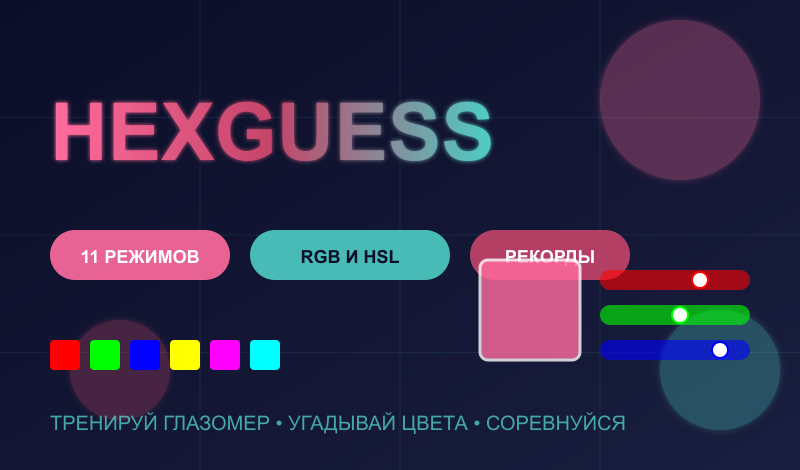
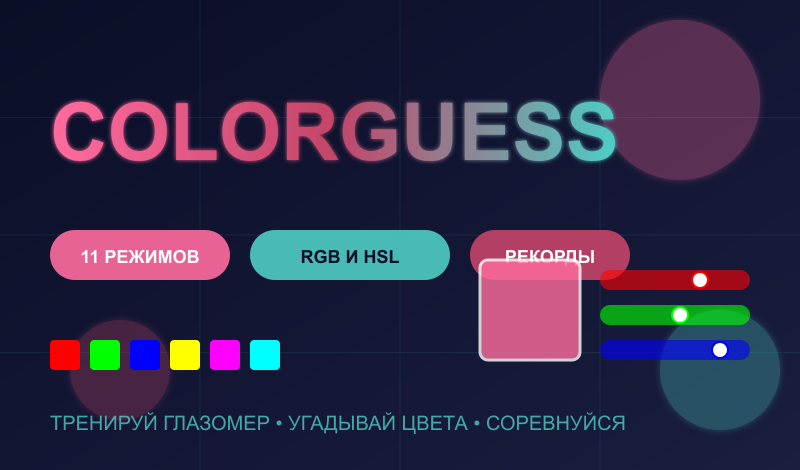
Переименование игры: HexGuess → ColorGuess
- Изменено название во всех мета-тегах и манифесте
- Обновлены SVG обложки с новым названием
- Пересозданы PNG обложки
- Изменена иконка: буква H → C, текст #HEX → #RGB
- Обновлены переводы в i18n.js
- Изменено название в package.json

Changed region(s): [[0.0625, 0.2085, 0.7812, 0.3574]]

diff --git a/index.html b/index.html
@@ -5,11 +5,11 @@
     <meta name="viewport" content="width=device-width, initial-scale=1.0, maximum-scale=1.0, user-scalable=no, viewport-fit=cover">
 
     <!-- Primary Meta Tags -->
-    <title>HexGuess | Угадай Цвет по HEX-коду</title>
-    <meta name="title" content="HexGuess | Угадай Цвет по HEX-коду">
+    <title>ColorGuess | Угадай Цвет по HEX-коду</title>
+    <meta name="title" content="ColorGuess | Угадай Цвет по HEX-коду">
     <meta name="description" content="Браузерная игра на угадывание цветов. 11 режимов игры: от легкого до марафона. Угадывай цвета, соревнуйся с друзьями в дейли челлендже!">
     <meta name="keywords" content="угадай цвет, hex colors, цветовая игра, rgb игра, браузерная игра, онлайн игра цвета, дизайн игра">
-    <meta name="author" content="HexGuess">
+    <meta name="author" content="ColorGuess">
     <meta name="robots" content="index, follow">
     <meta name="language" content="Russian">
     <meta name="revisit-after" content="7 days">
@@ -17,16 +17,16 @@
     <!-- Open Graph / Facebook -->
     <meta property="og:type" content="website">
     <meta property="og:url" content="https://hexguess.ru/">
-    <meta property="og:title" content="HexGuess">
+    <meta property="og:title" content="ColorGuess">
     <meta property="og:description" content="Браузерная игра на угадывание цветов. 11 режимов игры: от легкого до марафона. Угадывай цвета, соревнуйся с друзьями!">
     <meta property="og:image" content="https://hexguess.ru/og-image.png">
     <meta property="og:locale" content="ru_RU">
-    <meta property="og:site_name" content="HexGuess">
+    <meta property="og:site_name" content="ColorGuess">
 
     <!-- Twitter -->
     <meta property="twitter:card" content="summary_large_image">
     <meta property="twitter:url" content="https://hexguess.ru/">
-    <meta property="twitter:title" content="HexGuess">
+    <meta property="twitter:title" content="ColorGuess">
     <meta property="twitter:description" content="Браузерная игра на угадывание цветов. 11 режимов игры: от легкого до марафона.">
     <meta property="twitter:image" content="https://hexguess.ru/twitter-image.png">
 
@@ -56,7 +56,7 @@
     {
       "@context": "https://schema.org",
       "@type": "WebApplication",
-      "name": "HexGuess",
+      "name": "ColorGuess",
       "url": "https://hexguess.app",
       "description": "Браузерная игра на угадывание цветов с 11 режимами игры",
       "applicationCategory": "Game",

diff --git a/src/i18n.js b/src/i18n.js
@@ -1,8 +1,8 @@
-// Localization for HexGuess
+// Localization for ColorGuess
 export const translations = {
   ru: {
     // Main menu
-    title: 'HEXGUESS',
+    title: 'COLORGUESS',
     startGame: 'НАЧАТЬ ИГРУ',
     rules: 'ПРАВИЛА',
     privacy: 'ПОЛИТИКА ДАННЫХ',
@@ -157,12 +157,12 @@ export const translations = {
 
     // Privacy screen
     privacyTitle: 'ПОЛИТИКА ДАННЫХ',
-    privacyText: 'HexGuess не собирает персональные данные. Мы используем локальное хранилище браузера для сохранения настроек и рекордов только на вашем устройстве. Никакая информация не передается на серверы.'
+    privacyText: 'ColorGuess не собирает персональные данные. Мы используем локальное хранилище браузера для сохранения настроек и рекордов только на вашем устройстве. Никакая информация не передается на серверы.'
   },
 
   en: {
     // Main menu
-    title: 'HEXGUESS',
+    title: 'COLORGUESS',
     startGame: 'START GAME',
     rules: 'RULES',
     privacy: 'PRIVACY POLICY',
@@ -317,7 +317,7 @@ export const translations = {
 
     // Privacy screen
     privacyTitle: 'PRIVACY POLICY',
-    privacyText: 'HexGuess does not collect personal data. We use browser localStorage to save settings and records only on your device. No information is transmitted to servers.'
+    privacyText: 'ColorGuess does not collect personal data. We use browser localStorage to save settings and records only on your device. No information is transmitted to servers.'
   }
 }
 
